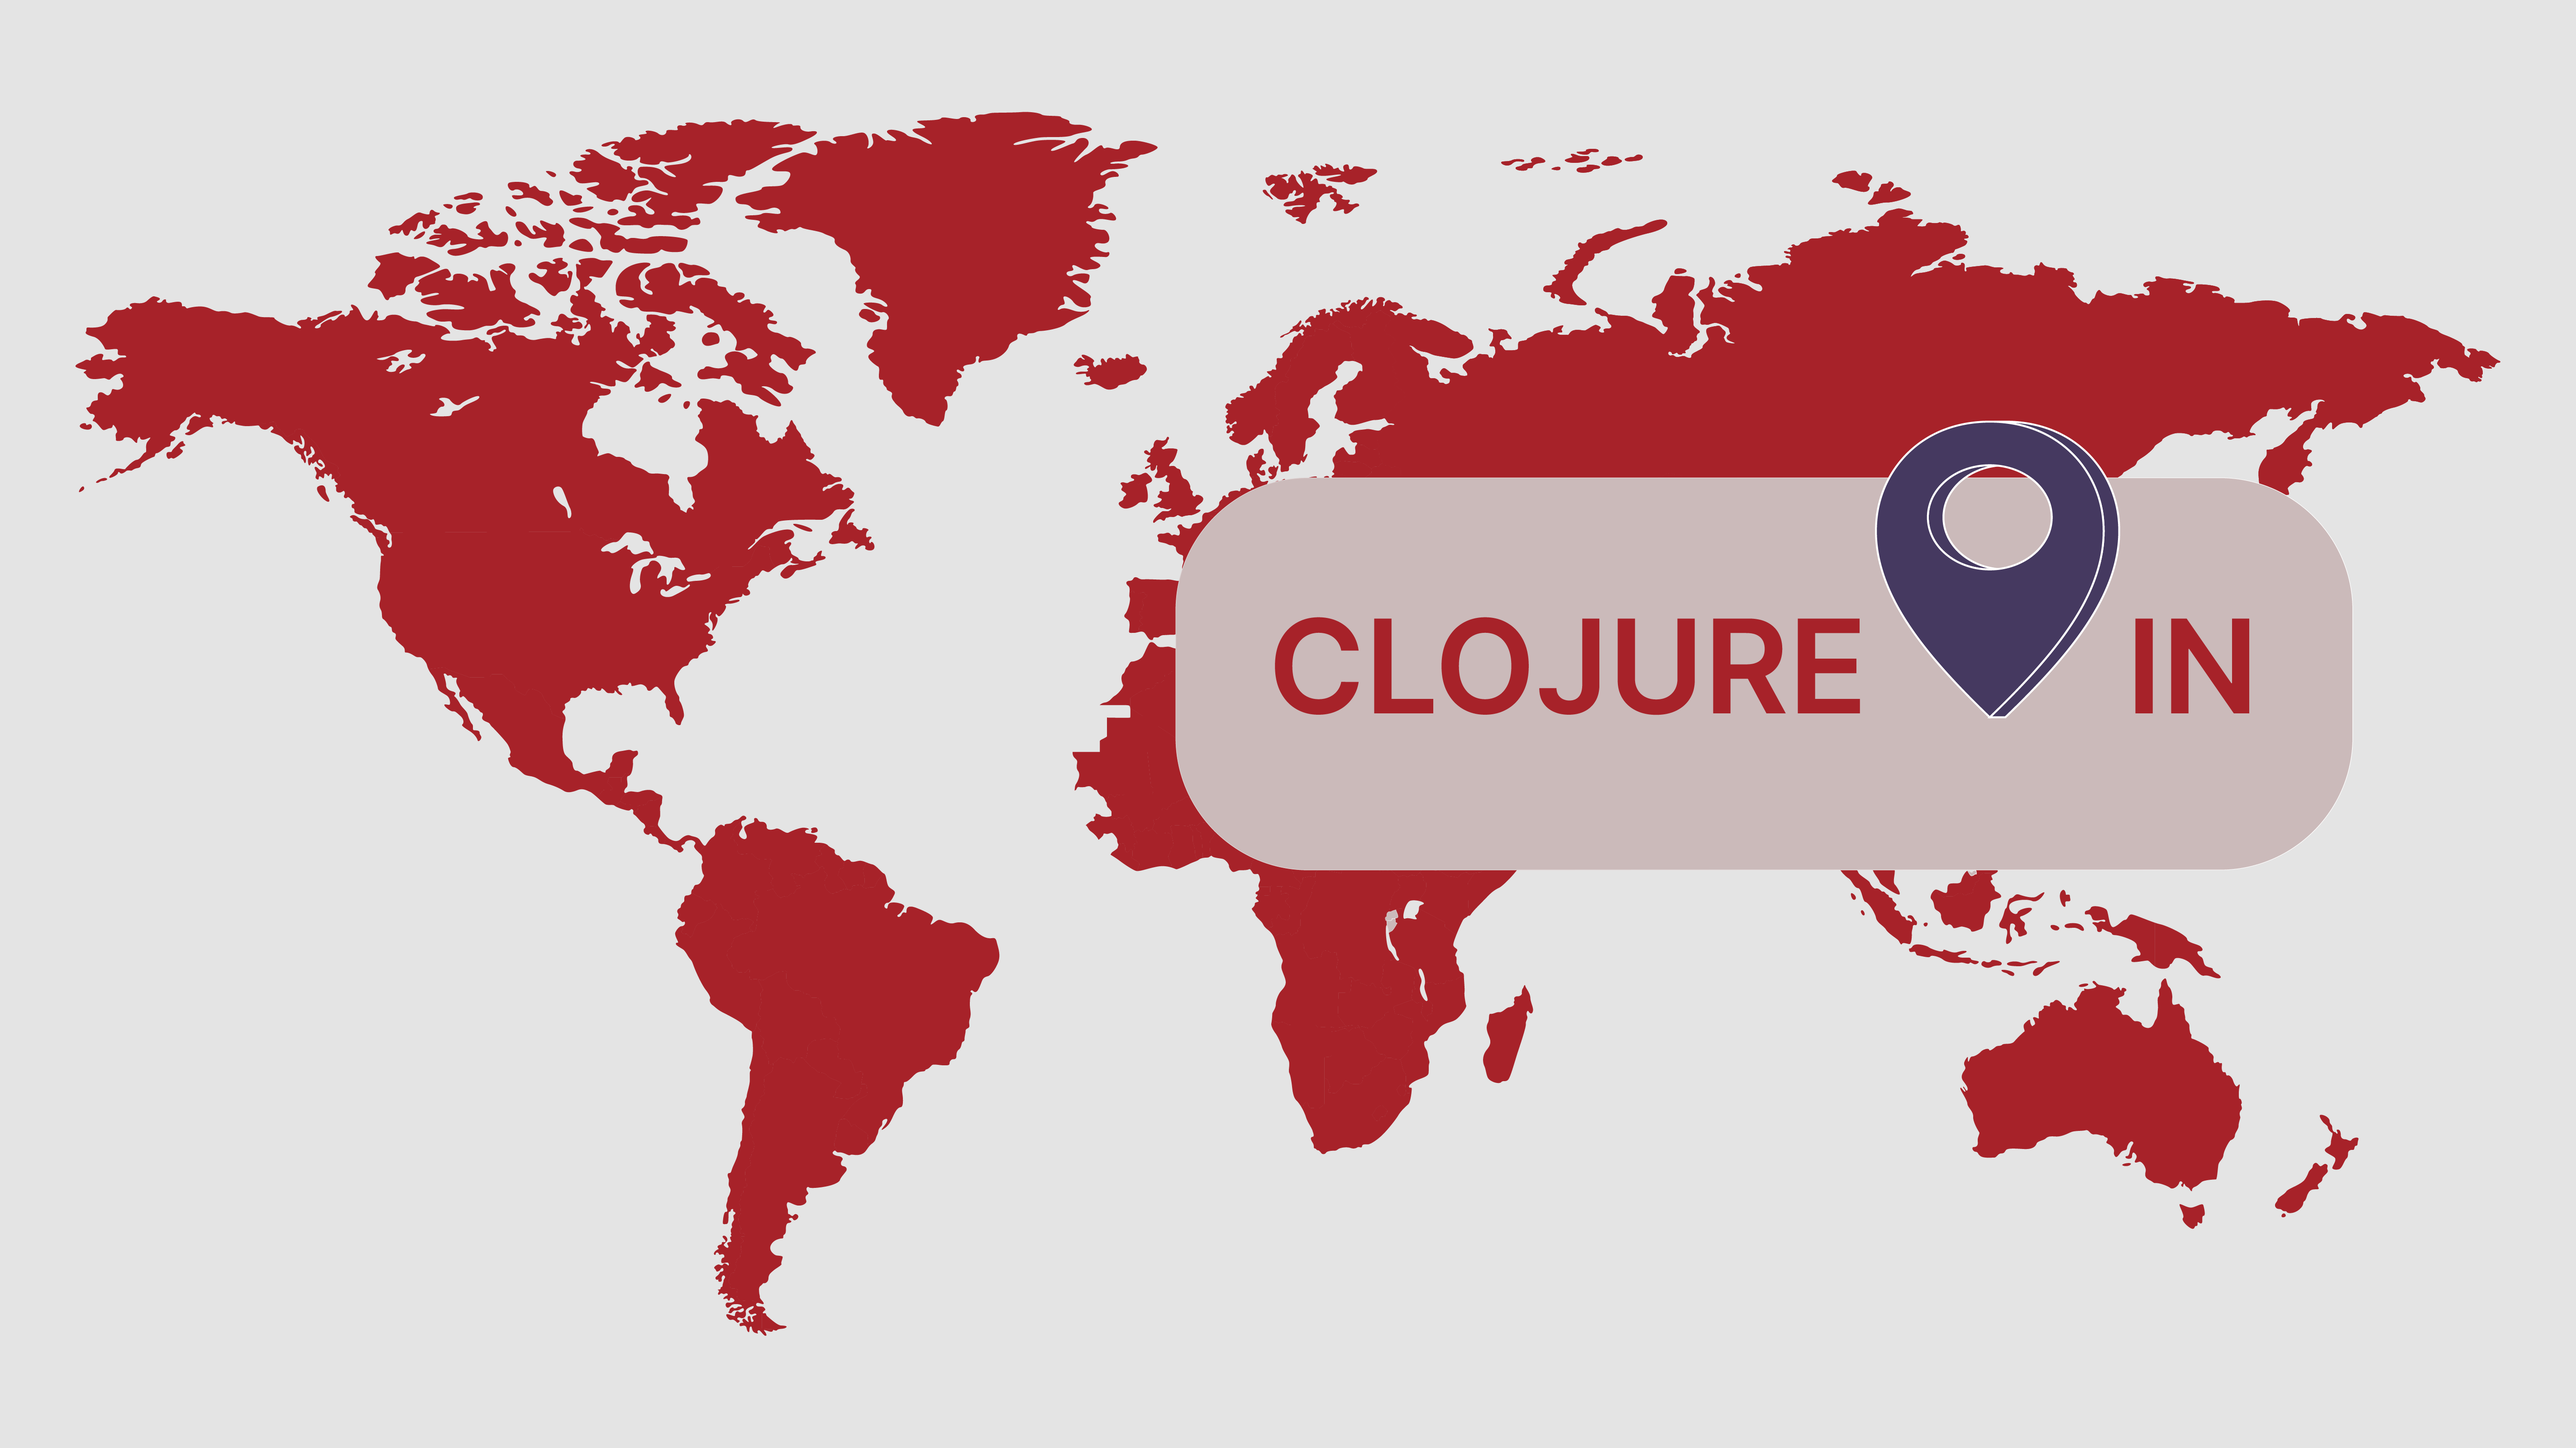
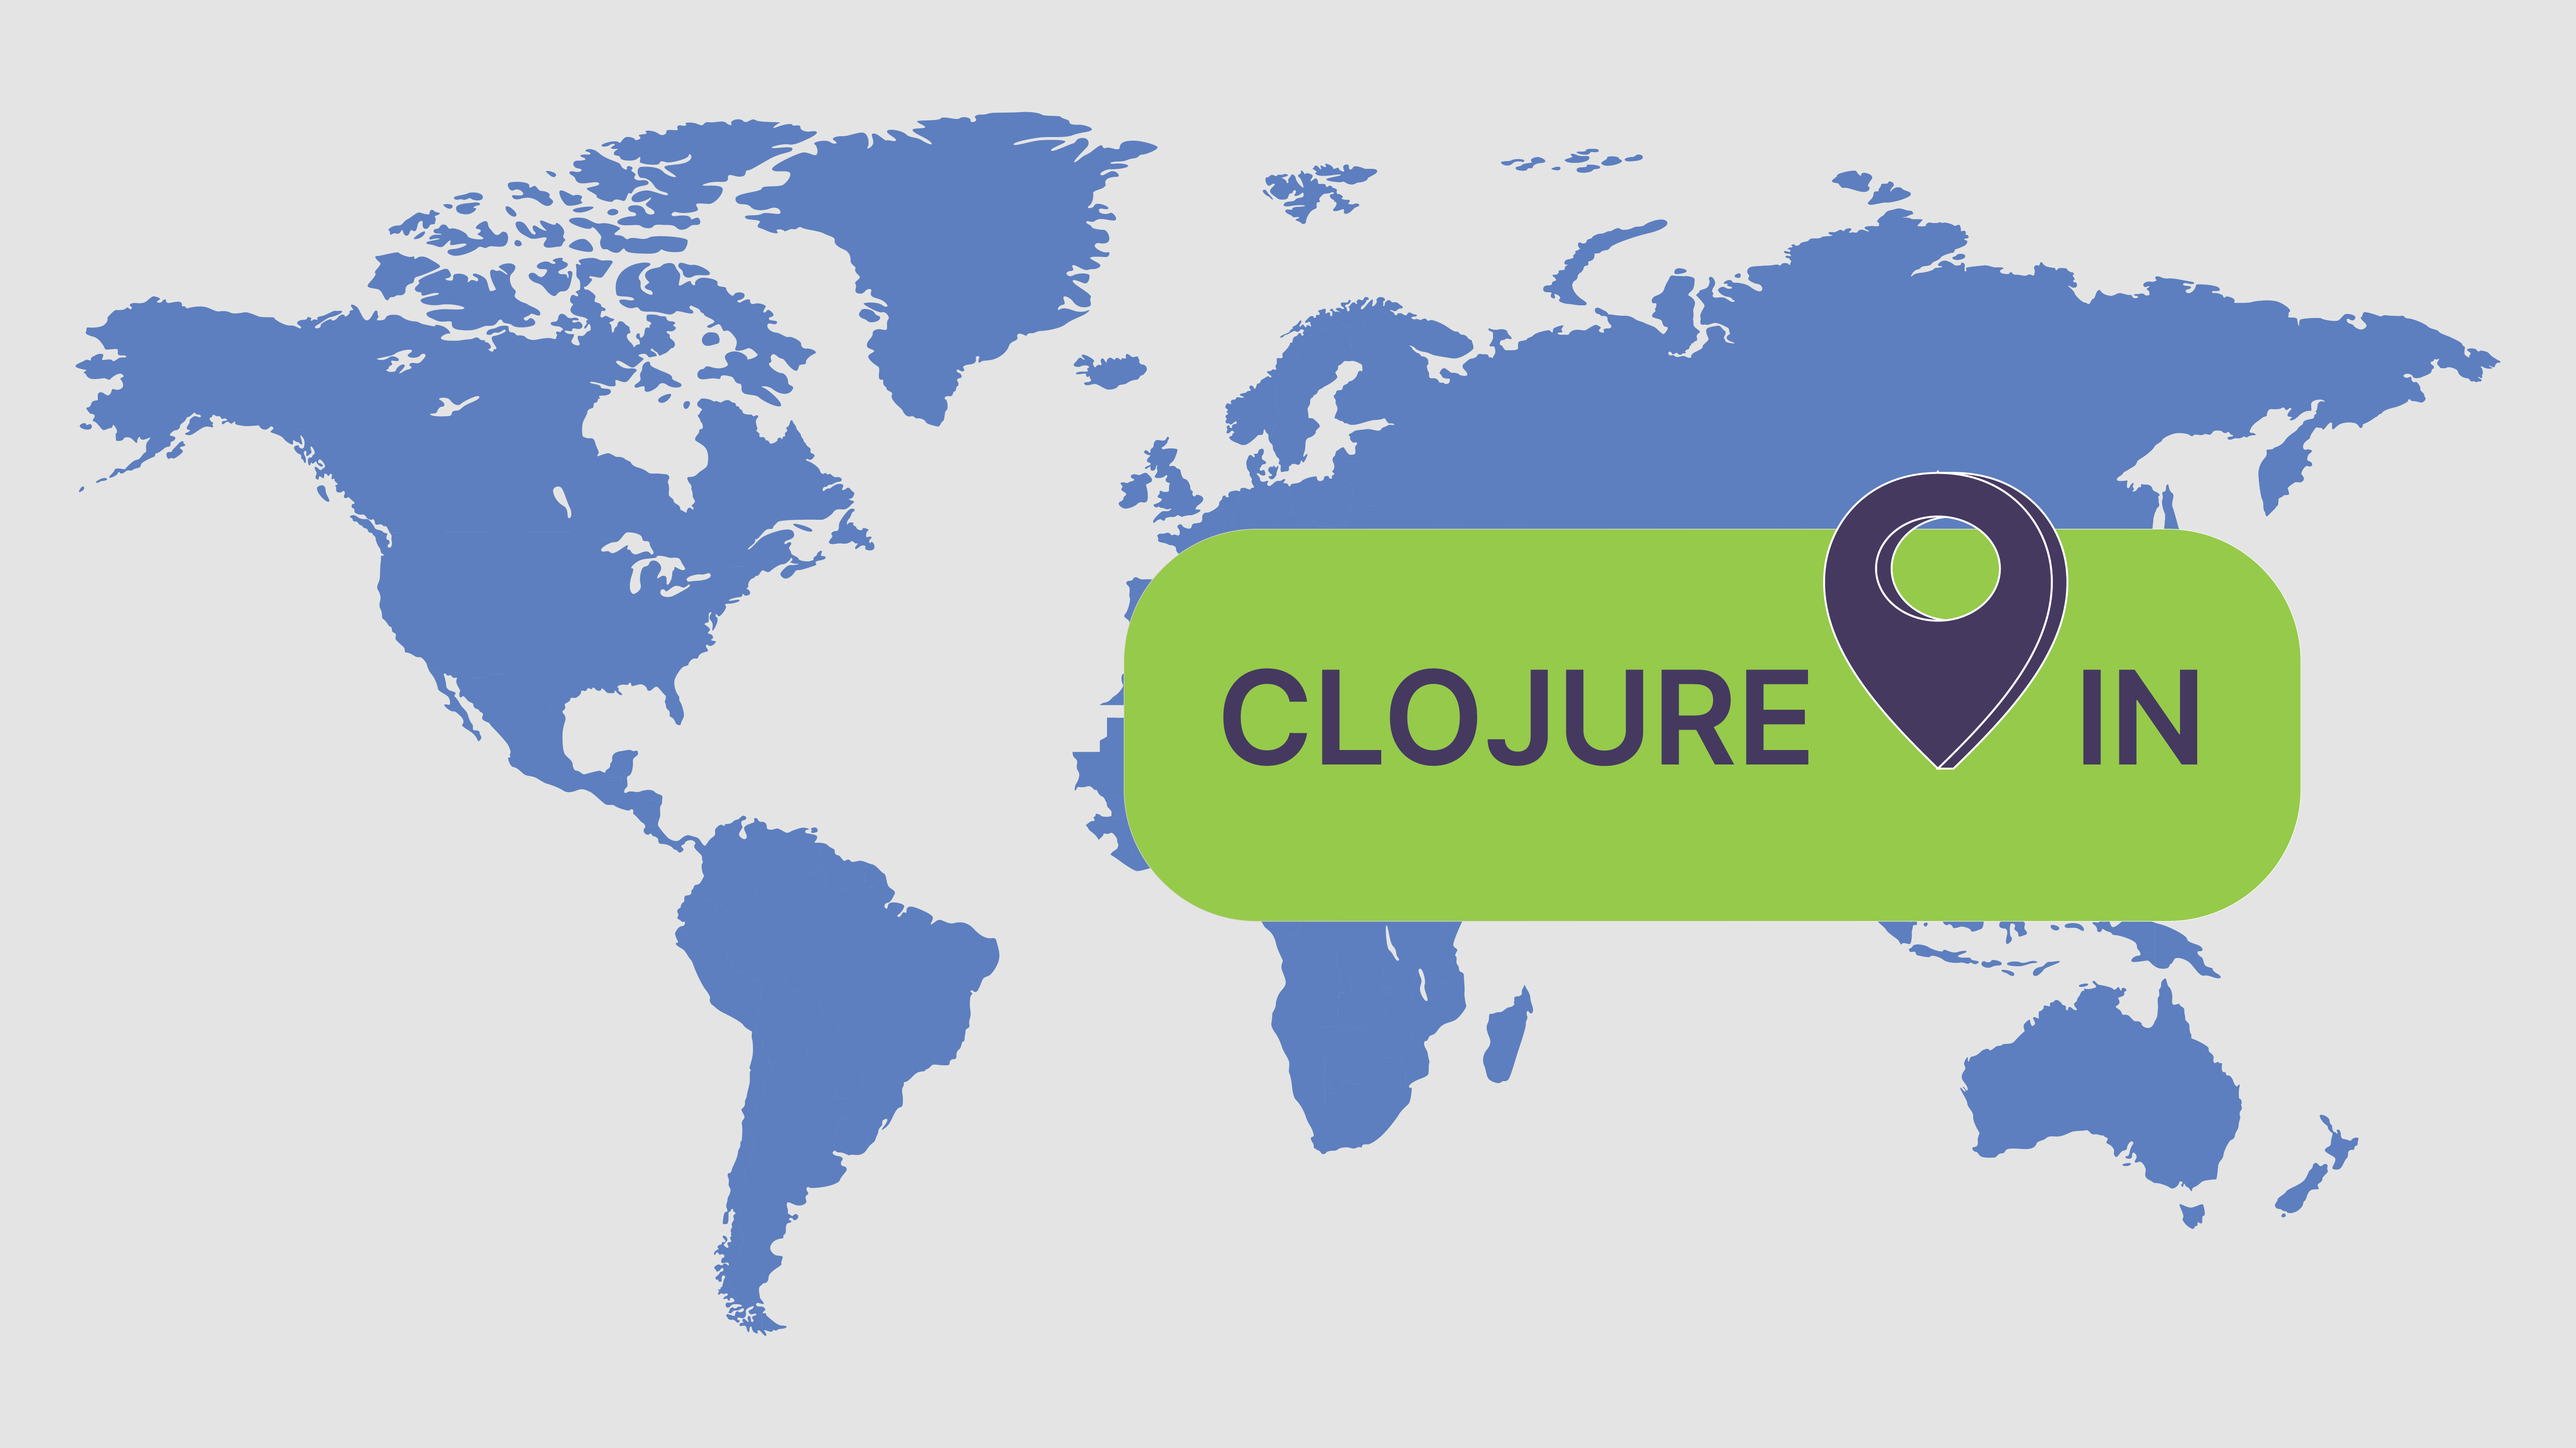
add new pics to clojurein page

diff --git a/src/pages/blog/clojure-in-crossref.md b/src/pages/blog/clojure-in-crossref.md
@@ -5,7 +5,7 @@ description: 'Improving scholarly communications'
 category: 'clojure-in'
 layout: '../../layouts/BlogPost.astro'
 publishedDate: '01 Nov 2018'
-heroImage: 'clojurein-uk.jpg'
+heroImage: 'clojurein-uk-2.jpg'
 clojureIn: { region: 'UK' }
 ---
 
